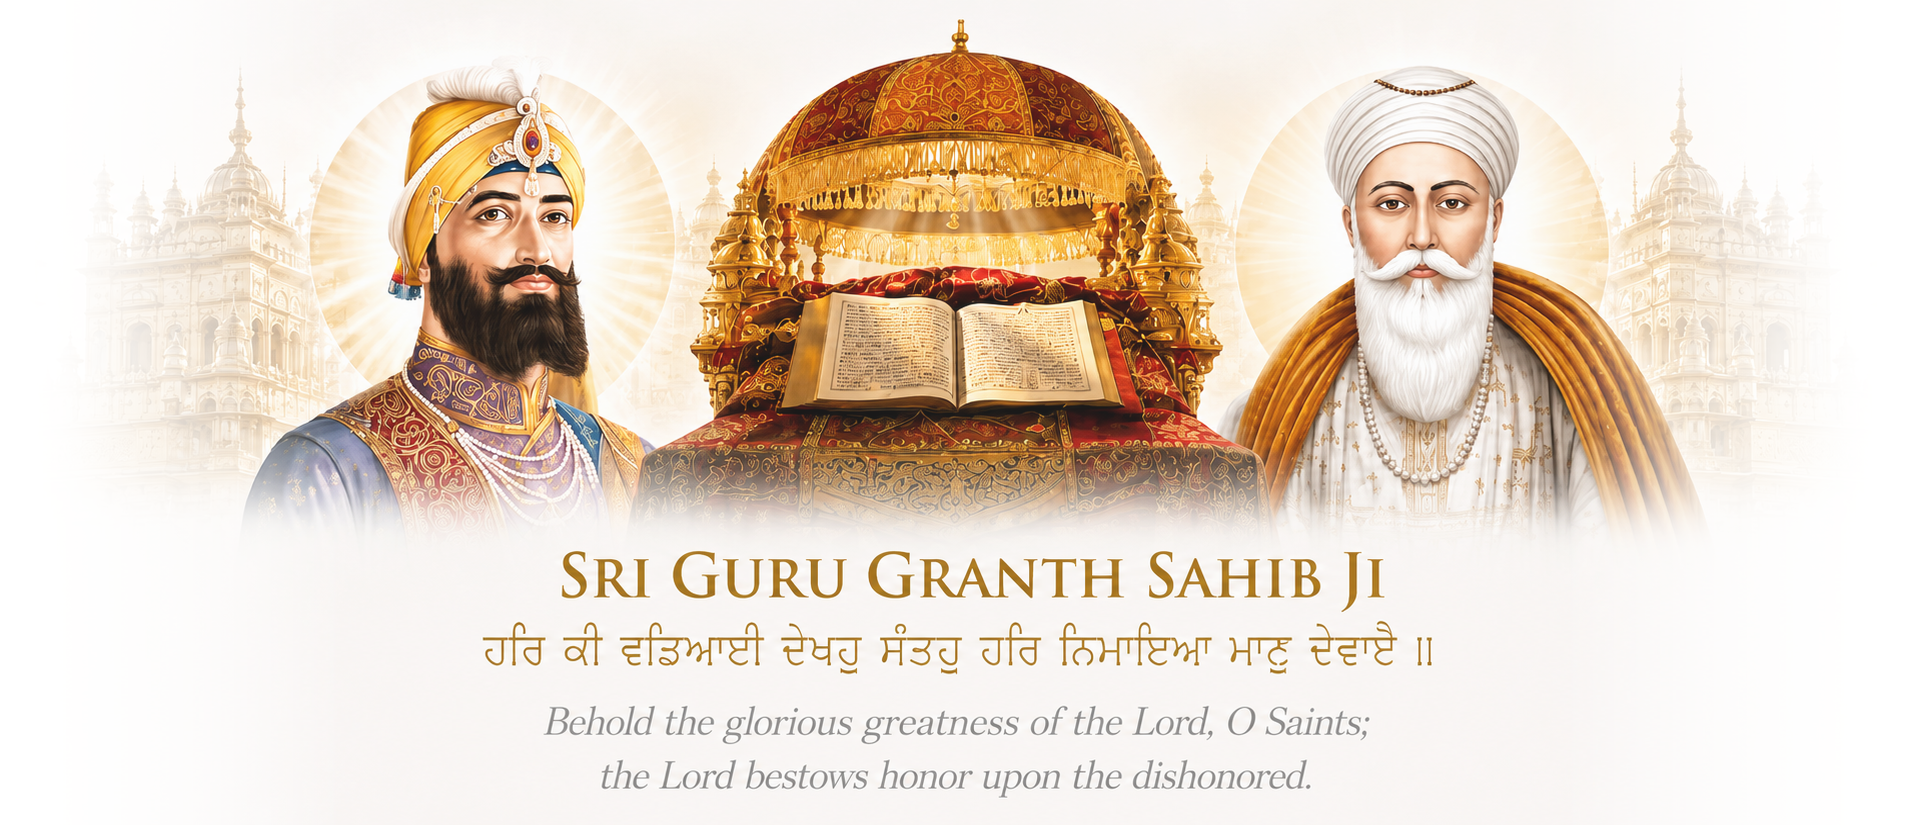
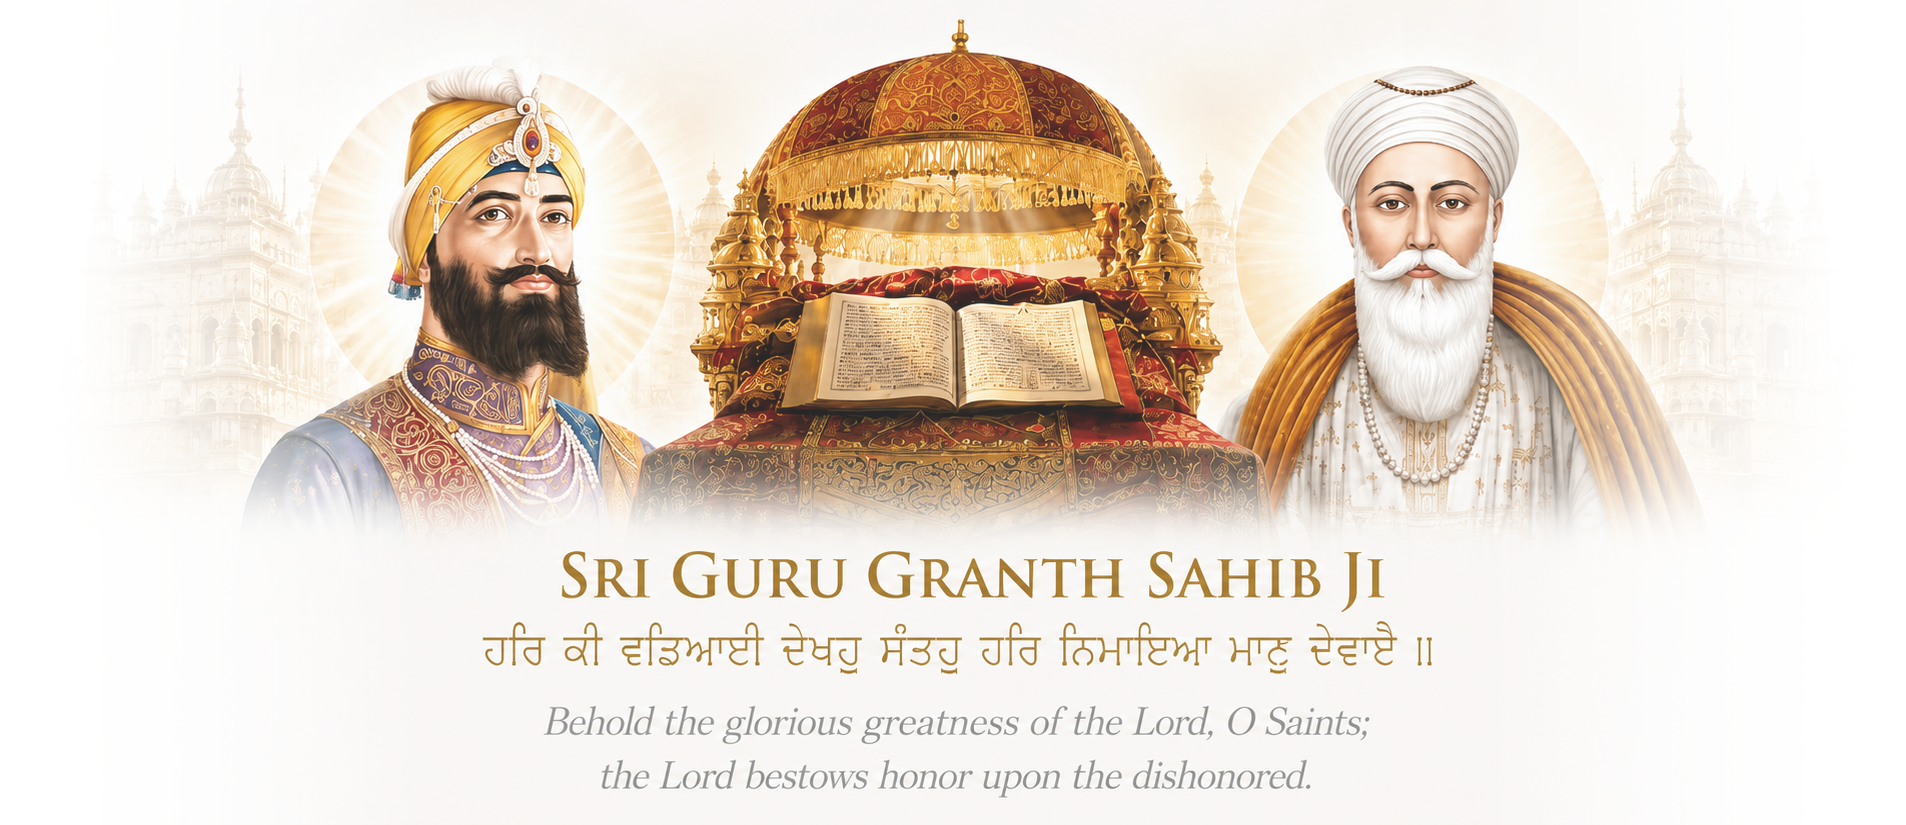
feat: complete visual polish with deep side feathering, soft divine hero contrast, translation clearance, centered dark mode slider, and refined gurpurab card, v10.59.0

Changed region(s): [[0.7739, 0.1818, 0.8977, 0.6364], [0.0929, 0.1515, 0.2167, 0.6061]]

diff --git a/frontend/index.html b/frontend/index.html
@@ -877,6 +877,303 @@
       opacity: 1 !important;
       display: block !important;
     }
+  
+    /* ═══════════════════════════════════════════════════════════════════════════
+       ULTIMATE FORENSIC REMEDIATION & VISUAL REFINEMENT (v10.59.0)
+       ═══════════════════════════════════════════════════════════════════════════ */
+
+    /* 1. Light Mode Hero Banner: Deep Breathing Room & No Translation Cutoff */
+    .greeting {
+      margin-top: -6px !important;
+      margin-bottom: 44px !important;
+      padding: 0 0 24px 0 !important;
+      text-align: center !important;
+      position: relative !important;
+      width: 100% !important;
+      max-width: 100% !important;
+      overflow: visible !important;
+    }
+
+    .greeting__hero-banner {
+      position: relative !important;
+      width: 100% !important;
+      max-width: 1100px !important;
+      margin: 0 auto !important;
+      display: flex !important;
+      justify-content: center !important;
+      align-items: center !important;
+      overflow: visible !important;
+      padding-bottom: 20px !important;
+      box-sizing: border-box !important;
+    }
+
+    @media (max-width: 767px) {
+      .greeting {
+        width: 100vw !important;
+        max-width: 100vw !important;
+        margin-left: calc(-50vw + 50%) !important;
+        margin-right: calc(-50vw + 50%) !important;
+        overflow: visible !important;
+        margin-bottom: 48px !important;
+        padding-bottom: 28px !important;
+      }
+      .greeting__hero-banner {
+        transform: scale(1.05) !important;
+        padding-bottom: 24px !important;
+      }
+    }
+
+    .greeting__hero-artwork {
+      width: 100% !important;
+      max-width: 100% !important;
+      height: auto !important;
+      aspect-ratio: 1906 / 825 !important;
+      object-fit: contain !important;
+      display: block !important;
+      image-rendering: -webkit-optimize-contrast !important;
+      image-rendering: high-quality !important;
+    }
+
+    /* 2. Dark Mode Guru Slider: Centered, Visible & Responsive */
+    html.dark-mode .greeting__hero-banner,
+    [data-theme="dark"] .greeting__hero-banner,
+    [data-time-of-day="night"] .greeting__hero-banner {
+      display: none !important;
+    }
+
+    html.dark-mode .greeting__dark-carousel-container,
+    [data-theme="dark"] .greeting__dark-carousel-container,
+    [data-time-of-day="night"] .greeting__dark-carousel-container {
+      display: flex !important;
+      flex-direction: column !important;
+      align-items: center !important;
+      gap: 12px !important;
+      width: 100% !important;
+      padding: 6px 0 !important;
+    }
+
+    .greeting__portrait-slider-wrap {
+      position: relative !important;
+      width: 100% !important;
+      max-width: 440px !important;
+      height: 165px !important;
+      display: flex !important;
+      align-items: center !important;
+      justify-content: center !important;
+      margin: 0 auto !important;
+      padding: 0 10px !important;
+      box-sizing: border-box !important;
+    }
+
+    .greeting__portrait-slider {
+      position: relative !important;
+      width: 100% !important;
+      height: 165px !important;
+      overflow: visible !important;
+      touch-action: pan-y !important;
+      display: flex !important;
+      align-items: center !important;
+      justify-content: center !important;
+      user-select: none !important;
+      -webkit-user-select: none !important;
+      -webkit-user-drag: none !important;
+      cursor: grab !important;
+    }
+
+    .greeting__slider-track {
+      position: relative !important;
+      width: 100% !important;
+      height: 100% !important;
+      display: block !important;
+      opacity: 1 !important;
+      visibility: visible !important;
+    }
+
+    .greeting__slide {
+      position: absolute !important;
+      width: 104px !important;
+      height: 104px !important;
+      top: 50% !important;
+      left: 50% !important;
+      margin-top: -52px !important;
+      margin-left: -52px !important;
+      display: flex !important;
+      align-items: center !important;
+      justify-content: center !important;
+      transition: transform 0.35s cubic-bezier(0.25, 1, 0.5, 1), opacity 0.3s ease, filter 0.3s ease !important;
+      opacity: 0 !important;
+      visibility: hidden !important;
+      pointer-events: none !important;
+      transform: scale(0.6) translateX(0) !important;
+      cursor: pointer !important;
+      user-select: none !important;
+      -webkit-user-select: none !important;
+      -webkit-user-drag: none !important;
+    }
+
+    .greeting__slide--active {
+      opacity: 1 !important;
+      visibility: visible !important;
+      transform: scale(1.22) translateX(0) !important;
+      z-index: 10 !important;
+      pointer-events: auto !important;
+      filter: drop-shadow(0 8px 24px rgba(212, 148, 58, 0.5)) !important;
+    }
+
+    .greeting__slide--prev {
+      opacity: 0.75 !important;
+      visibility: visible !important;
+      transform: scale(0.85) translateX(-105px) !important;
+      z-index: 5 !important;
+      pointer-events: auto !important;
+      filter: drop-shadow(0 4px 14px rgba(0, 0, 0, 0.5)) !important;
+    }
+
+    .greeting__slide--next {
+      opacity: 0.75 !important;
+      visibility: visible !important;
+      transform: scale(0.85) translateX(105px) !important;
+      z-index: 5 !important;
+      pointer-events: auto !important;
+      filter: drop-shadow(0 4px 14px rgba(0, 0, 0, 0.5)) !important;
+    }
+
+    .greeting__slide--far-prev {
+      opacity: 0.25 !important;
+      visibility: visible !important;
+      transform: scale(0.62) translateX(-175px) !important;
+      z-index: 1 !important;
+      pointer-events: auto !important;
+    }
+
+    .greeting__slide--far-next {
+      opacity: 0.25 !important;
+      visibility: visible !important;
+      transform: scale(0.62) translateX(175px) !important;
+      z-index: 1 !important;
+      pointer-events: auto !important;
+    }
+
+    .greeting__guru-portrait {
+      width: 104px !important;
+      height: 104px !important;
+      min-width: 104px !important;
+      min-height: 104px !important;
+      max-width: 104px !important;
+      max-height: 104px !important;
+      border-radius: 50% !important;
+      overflow: hidden !important;
+      border: 3px solid #D4943A !important;
+      box-shadow: 0 4px 18px rgba(0, 0, 0, 0.4), 0 0 16px rgba(212, 148, 58, 0.3) !important;
+      background: #1C1C1E !important;
+      pointer-events: none !important;
+      user-select: none !important;
+      -webkit-user-drag: none !important;
+    }
+
+    .greeting__guru-portrait img {
+      width: 100% !important;
+      height: 100% !important;
+      object-fit: cover !important;
+      display: block !important;
+      pointer-events: none !important;
+      -webkit-user-drag: none !important;
+      user-select: none !important;
+      opacity: 1 !important;
+      visibility: visible !important;
+    }
+
+    /* 3. Gurpurab Calendar Card Polish */
+    .event-card {
+      padding: 16px 20px !important;
+      border-radius: 24px !important;
+      min-height: auto !important;
+      border: none !important;
+      box-shadow: 
+        5px 7px 18px rgba(212, 168, 83, 0.12),
+        -3px -3px 8px rgba(255, 255, 255, 0.98),
+        inset 1.5px 1.5px 3px rgba(255, 255, 255, 1),
+        inset -1.5px -1.5px 3px rgba(212, 168, 83, 0.05) !important;
+      background: linear-gradient(135deg, #FFFFFF 0%, #FFFDF8 45%, #FAF2DD 100%) !important;
+      overflow: hidden !important;
+      margin-bottom: 22px !important;
+    }
+
+    html.dark-mode .event-card,
+    [data-theme="dark"] .event-card,
+    [data-time-of-day="night"] .event-card {
+      background: linear-gradient(150deg, #18181B 0%, #101012 100%) !important;
+      border: none !important;
+      box-shadow: 
+        5px 6px 16px rgba(0, 0, 0, 0.65),
+        -2px -2px 6px rgba(255, 255, 255, 0.03),
+        inset 2px 2px 4px rgba(212, 148, 58, 0.18),
+        inset -2px -2px 5px rgba(0, 0, 0, 0.45) !important;
+    }
+
+    .event-card__content {
+      display: flex !important;
+      flex-direction: row !important;
+      align-items: center !important;
+      justify-content: space-between !important;
+      gap: 16px !important;
+      width: 100% !important;
+    }
+
+    .event-card__left {
+      flex: 1 1 auto !important;
+      min-width: 0 !important;
+    }
+
+    .event-card__title {
+      font-size: 1.05rem !important;
+      line-height: 1.35 !important;
+      font-weight: 700 !important;
+      margin: 4px 0 8px 0 !important;
+      white-space: normal !important;
+      word-wrap: break-word !important;
+      color: #1A1A1A !important;
+      letter-spacing: -0.2px !important;
+    }
+
+    html.dark-mode .event-card__title,
+    [data-theme="dark"] .event-card__title,
+    [data-time-of-day="night"] .event-card__title {
+      color: #F5E6C8 !important;
+    }
+
+    .event-card__badge-row {
+      display: flex !important;
+      align-items: center !important;
+      gap: 8px !important;
+      flex-wrap: wrap !important;
+      margin-top: 2px !important;
+    }
+
+    .event-card__guru-wrapper {
+      width: 82px !important;
+      height: 82px !important;
+      min-width: 82px !important;
+      min-height: 82px !important;
+      border-radius: 50% !important;
+      padding: 2.5px !important;
+      background: linear-gradient(145deg, #F5E6C8 0%, #D4A84B 50%, #B8860B 100%) !important;
+      box-shadow: 0 4px 14px rgba(212, 168, 83, 0.35) !important;
+      display: flex !important;
+      align-items: center !important;
+      justify-content: center !important;
+      flex-shrink: 0 !important;
+    }
+
+    .event-card__guru-img {
+      width: 100% !important;
+      height: 100% !important;
+      object-fit: cover !important;
+      object-position: center 25% !important;
+      border-radius: 50% !important;
+      opacity: 1 !important;
+      display: block !important;
+    }
   </style>
   
   <meta name="viewport" content="width=device-width, initial-scale=1.0, maximum-scale=5.0, viewport-fit=cover">

diff --git a/frontend/sw.js b/frontend/sw.js
@@ -12,7 +12,7 @@
  * ═══════════════════════════════════════════════════════════════════════════════
  */
 
-const CACHE_VERSION = 'anhad-v10.58.0'; // v10.50.0: Perfected 16px floating gap between mini-player and bottom tab bar, whisper-soft pastel white cushion clay cards, and instant pre-cached navigation.
+const CACHE_VERSION = 'anhad-v10.59.0'; // v10.50.0: Perfected 16px floating gap between mini-player and bottom tab bar, whisper-soft pastel white cushion clay cards, and instant pre-cached navigation.
 // v10.29.0: Root-caused why fixes kept looking reverted on both localhost AND the deployed site despite correct source: .js/.css requests (rule 4 below) used cacheFirst(), which NEVER revalidates a hit — once any browser fetched e.g. nav-glass.css once, it kept serving that exact response forever regardless of CACHE_VERSION bumps, until the whole detect-new-SW/install/activate/reload chain happened to complete for that specific client. .html already used staleWhileRevalidate for exactly this reason (see the v10.13-v10.22 history below) but .js/.css never did. Moved .js/.css to staleWhileRevalidate too (new rule 3c) — verified live by injecting a fake stale response into an active client's cache and confirming the SECOND fetch (not a reload, not a cache clear, ~1s later) automatically served the real current file. Also: de-clobbered window.__anhadPageInit — trendora-app.js and homepage-data.js registered the identical 4 keys for Home and the second one to load silently overwrote the first, so only one of the two intended repopulation paths ever actually ran; now both compose, with the double-render debounce moved inside refreshHomeForSpa itself so having two live trigger paths again can't reintroduce the flash. Shell script loads that fail now retry once and log clearly instead of onerror=resolve silently treating a failed fetch as success forever. Added missing cache-busting query params to smooth-navigation.js/homepage-data.js. Live-measured the reported Home bottom gap on a guaranteed-fresh load: padding-bottom computes to exactly 110px, on-screen gap measures 109.67px — matches source exactly, confirming the gap itself was never a code bug, only ever a symptom of the same stale-cache issue this version fixes at the root.
 // v10.28.0: Decreased excessive bottom padding-bottom from 160px to 110px in nav-glass.css, and upgraded the Nitnem, Sehaj Paath, and Hukamnama practice cards with premium 3D soft claymorphism (ambient soft colored drop shadows + inset light reflection and shadow highlights) in both Light & Dark modes.
 // v10.26.0: Found the REAL remaining cause of the Home/Favorites "two-time flash" the user kept reporting even after v10.23/v10.24 — a CSS entrance animation (.page-enter, anhad-core.css), applied by JS via smooth-navigation.js's unconditional post-swap AnhadCore.init() -> initTransition() call, on an #app container that was already fully painted and visible. Adding a class that newly matches an `animation` rule restarts it regardless of how it's added — so this genuinely replayed the 0.48s "fade up from below" entrance on top of content the user was already looking at, on every single arrival at Home/Favorites. Insights never showed this because its own swapped content (#mainContent) already ships `page-enter` baked into its static HTML, so the later JS class-add is a true no-op there (class already present). Fix: added `page-enter` to Home's and Favorites' own #app markup, matching Insights' pattern exactly, instead of touching the JS trigger at all — verified via CDP by sampling #app's actual computed opacity every 25ms across 5 rapid Home<->Favorites round trips (the exact "gets worse the more I test" scenario reported): 172 samples, zero re-triggers, zero errors. Also fixed the Learning page's Daily Gursikhi Quiz re-prompting the same already-answered question on every revisit — it had no persistence at all; now stores {date, selectedIdx} in localStorage (en-CA date, matching the app's existing per-day convention) and restores the answered state instead of a fresh clickable question until the next calendar day.
